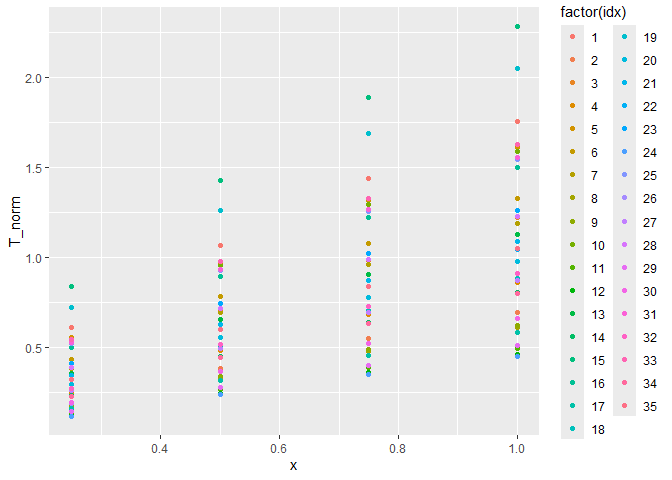
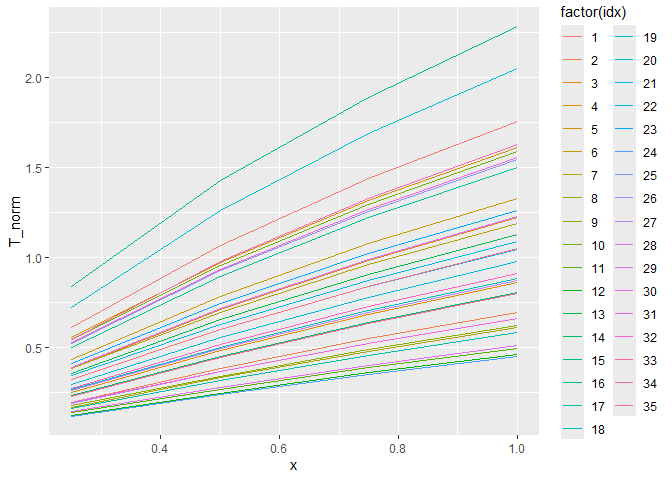
c11 revisions

Changed region(s): [[0.0938, 0.2812, 0.7812, 0.875], [0.5312, 0.1875, 0.5625, 0.2188]]

diff --git a/challenges/c11-psaap-assignment.md b/challenges/c11-psaap-assignment.md
@@ -164,37 +164,49 @@ various locations along the RADIATED SECTION.
 ``` r
 ## TODO: Perform your initial checks
 
-glimpse(df_psaap)
+head(df_psaap)
 ```
 
-    ## Rows: 140
-    ## Columns: 22
-    ## $ x      <dbl> 0.25, 0.25, 0.25, 0.25, 0.25, 0.25, 0.25, 0.25, 0.25, 0.25, 0.2…
-    ## $ idx    <dbl> 1, 2, 3, 4, 5, 6, 7, 8, 9, 10, 11, 12, 13, 14, 15, 16, 17, 18, …
-    ## $ L      <dbl> 0.1898058, 0.1511218, 0.1693629, 0.1348453, 0.2009348, 0.159982…
-    ## $ W      <dbl> 0.03421154, 0.04636061, 0.03982547, 0.03252195, 0.04407102, 0.0…
-    ## $ U_0    <dbl> 1.859988, 2.232010, 2.037526, 2.445058, 1.697920, 1.964563, 2.3…
-    ## $ N_p    <dbl> 1600067, 2215857, 1707729, 2076161, 1945272, 1822635, 2364952, …
-    ## $ k_f    <dbl> 0.08322124, 0.11122740, 0.08674231, 0.12083851, 0.09041236, 0.0…
-    ## $ T_f    <dbl> 300.1695, 243.2194, 289.8267, 357.6900, 251.8989, 279.8404, 260…
-    ## $ rho_f  <dbl> 1.1627025, 1.1319406, 1.1019925, 1.2267571, 1.4408823, 0.963726…
-    ## $ mu_f   <dbl> 1.519285e-05, 1.840742e-05, 2.177345e-05, 2.230214e-05, 2.28436…
-    ## $ lam_f  <dbl> 0.03158350, 0.02590530, 0.03487354, 0.03700987, 0.03557159, 0.0…
-    ## $ C_fp   <dbl> 1062.3567, 1113.6519, 951.6687, 997.6194, 936.8270, 1223.7923, …
-    ## $ rho_p  <dbl> 8415.812, 10648.082, 10805.811, 10965.876, 7819.270, 7372.629, …
-    ## $ d_p    <dbl> 1.073764e-05, 1.100549e-05, 1.244840e-05, 9.729835e-06, 1.14198…
-    ## $ C_pv   <dbl> 467.6986, 382.8730, 528.5409, 462.5276, 413.8601, 505.5510, 552…
-    ## $ h      <dbl> 6279.242, 4666.593, 6147.515, 4920.612, 6018.550, 5356.113, 529…
-    ## $ I_0    <dbl> 7876978, 6551358, 6121350, 6363488, 8512473, 7011572, 8268366, …
-    ## $ eps_p  <dbl> 0.4426710, 0.3247988, 0.4027115, 0.3890929, 0.4388801, 0.336167…
-    ## $ avg_q  <dbl> 689522.7, 684218.2, 619206.2, 1070186.0, 577245.1, 648248.9, 70…
-    ## $ avg_T  <dbl> 485.0239, 291.3887, 401.6959, 447.3889, 392.5981, 401.3814, 360…
-    ## $ rms_T  <dbl> 7.613507, 4.185764, 5.612525, 4.475737, 6.945722, 7.579457, 4.1…
-    ## $ T_norm <dbl> 0.6158335, 0.1980487, 0.3859864, 0.2507726, 0.5585543, 0.434322…
+    ## # A tibble: 6 × 22
+    ##       x   idx     L      W   U_0     N_p    k_f   T_f rho_f    mu_f  lam_f  C_fp
+    ##   <dbl> <dbl> <dbl>  <dbl> <dbl>   <dbl>  <dbl> <dbl> <dbl>   <dbl>  <dbl> <dbl>
+    ## 1  0.25     1 0.190 0.0342  1.86  1.60e6 0.0832  300. 1.16  1.52e-5 0.0316 1062.
+    ## 2  0.25     2 0.151 0.0464  2.23  2.22e6 0.111   243. 1.13  1.84e-5 0.0259 1114.
+    ## 3  0.25     3 0.169 0.0398  2.04  1.71e6 0.0867  290. 1.10  2.18e-5 0.0349  952.
+    ## 4  0.25     4 0.135 0.0325  2.45  2.08e6 0.121   358. 1.23  2.23e-5 0.0370  998.
+    ## 5  0.25     5 0.201 0.0441  1.70  1.95e6 0.0904  252. 1.44  2.28e-5 0.0356  937.
+    ## 6  0.25     6 0.160 0.0379  1.96  1.82e6 0.0798  280. 0.964 2.13e-5 0.0249 1224.
+    ## # ℹ 10 more variables: rho_p <dbl>, d_p <dbl>, C_pv <dbl>, h <dbl>, I_0 <dbl>,
+    ## #   eps_p <dbl>, avg_q <dbl>, avg_T <dbl>, rms_T <dbl>, T_norm <dbl>
+
+``` r
+distinct(df_psaap, W)
+```
+
+    ## # A tibble: 35 × 1
+    ##         W
+    ##     <dbl>
+    ##  1 0.0342
+    ##  2 0.0464
+    ##  3 0.0398
+    ##  4 0.0325
+    ##  5 0.0441
+    ##  6 0.0379
+    ##  7 0.0360
+    ##  8 0.0488
+    ##  9 0.0419
+    ## 10 0.0336
+    ## # ℹ 25 more rows
 
 **Observations**:
 
-- (Take notes here!)
+- There are a lot of different variables here.
+
+  - 22 total
+
+- All are numbers (dbl)
+
+- There are only 4 documented positions for x –\> 0.25, 0.5, 0.75, 1
 
 The important variables in this dataset are:
 
@@ -237,7 +249,7 @@ of fluid, for different experimental settings (e.g. different dimensions
 ##       each identified by different values of idx
 df_psaap %>%
   ggplot() +
-  geom_point(aes(x, T_norm, color = factor(idx)))
+  geom_line(aes(x, T_norm, color = factor(idx)))
 ```
 
 ![](c11-psaap-assignment_files/figure-gfm/q2-task-1.png)<!-- -->
@@ -305,8 +317,10 @@ cat(rmse_baseline, rmse_cheat, rmse_nonphysical)
 **Observations**:
 
 - Which model is *most accurate*? Which is *least accurate*?
-  - The nonphysical one is most accurate and the cheat model is the
+  - The cheat one is most accurate and the non physical model is the
     least accurate
+  - Since we are using rmse, the closer to 0 the value the more accurate
+    the model.
 - What *Category* of variable is `avg_T`? Why is it such an effective
   predictor?
   - it is an output of average temperature.
@@ -404,21 +418,19 @@ print(rmse_q4)
   - C_fp
 - What is the regression coefficient for `x`? What about the regression
   coefficient for `T_f`?
-  - x regression coeff is 1.657 x 10^(-26) (very close to 0 and thus
-    very correlated)
-  - The regression coeff for T_f is 7.475 x 10^(-1) (quite large and
-    thus not well correlated)
+  - the regression coeff for x is 1.02
+  - The regression coeff for T_f is -3.79e-4
 - What is the standard deviation of `x` in `df_psaap`? What about the
   standard deviation of `T_f`?
   - The standard deviation for x is 0.2805
   - The standard deviation for T_f is 38.94204
 - How do these standard deviations relate to the regression coefficients
   for `x` and `T_f`?
-  - the p_value/regression coefficient represents how closely the input
-    is associated with the output. The x is highly correlated with the
-    output so its’ p_value is extremely small and its standard deviation
-    is small for this reason. Since T_f is not well related with the
-    output the standard deviation is quite large
+  - the p_value represents how closely the input is associated with the
+    output. The x is highly correlated with the output so its’ p_value
+    is extremely small and its standard deviation is small for this
+    reason. Since T_f is not well related with the output the standard
+    deviation is quite large
 - Note that literally *all* of the inputs above have *some* effect on
   the output `T_norm`; so they are all “significant” in that sense. What
   does this tell us about the limitations of statistical significance
@@ -569,16 +581,16 @@ bind_rows(
 
 - Which model tends to be more accurate? How can you tell from this
   predicted-vs-actual plot?
-  - q4 is more accurate. I can tell as the points follow the trend line
-    closest.
+  - q4 is more accurate. I can tell as the points follow the reference
+    line (for y = x) closest.
 - Which model tends to be *more confident* in its predictions? Put
   differently, which model has *narrower prediction intervals*?
   - q4 is more confident as the error bars are smaller than the x_only
     model.
 - How many predictors does the `fit_simple` model need in order to make
   a prediction? What about your model `fit_q4`?
-  - fit simple only has 1 predictor input while q4 has four predictor
-    inputs.
+  - fit simple only has 1 predictor input while q4 has all inputs. The
+    variables removed were either outputs or model metadata.
 
 Based on these results, you might be tempted to always throw every
 reasonable variable into the model. For some cases, that might be the
